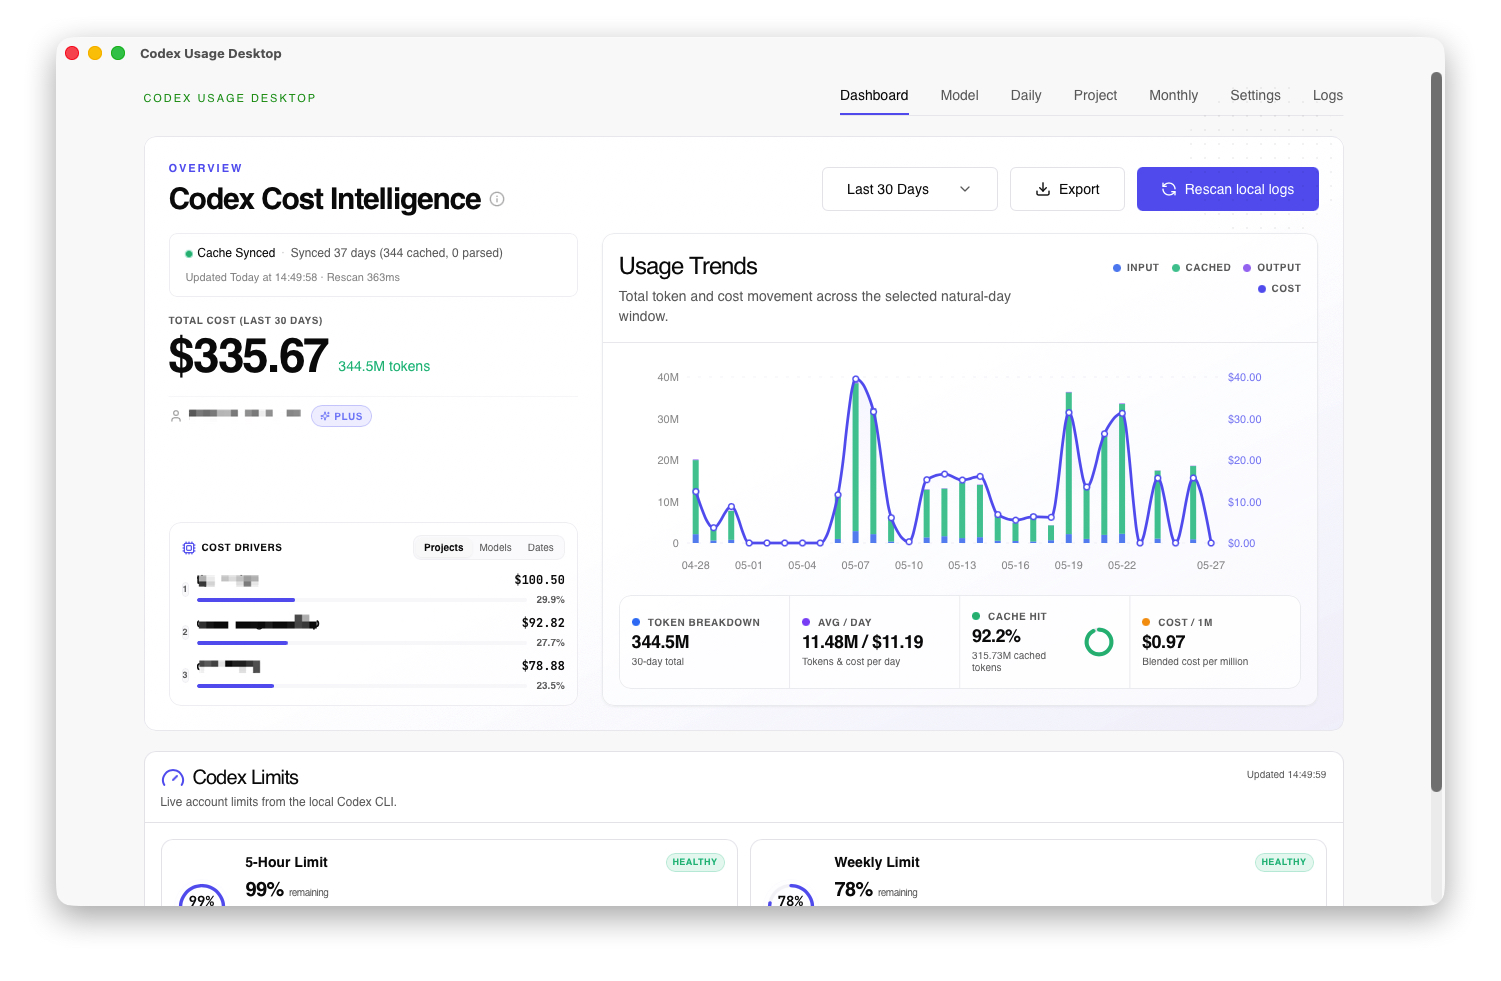
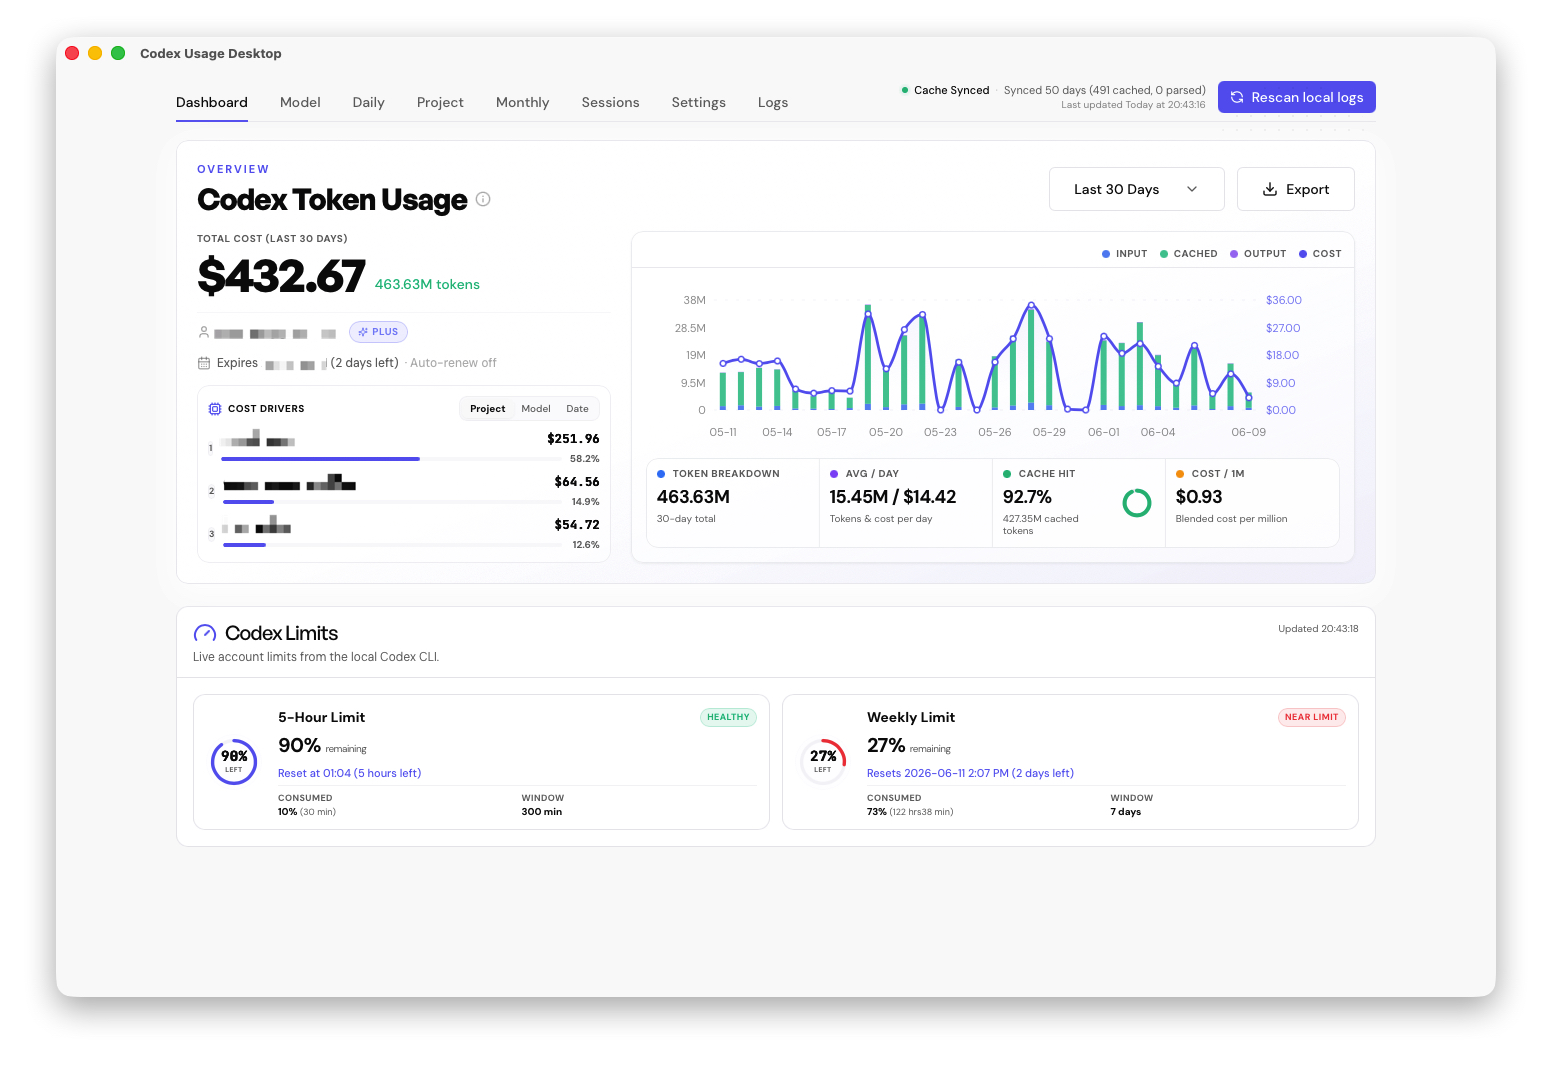
doc: update README

diff --git a/README.md b/README.md
@@ -7,19 +7,22 @@
 [![Built with Tauri](https://img.shields.io/badge/built%20with-Tauri-24c8db.svg)](https://tauri.app/)
 [![Local first](https://img.shields.io/badge/local--first-privacy-green.svg)](#privacy)
 
-A local-first macOS dashboard for Codex CLI token usage, cost estimates, model usage, and project usage from your local `~/.codex` logs.
+> See where your Codex tokens and dollars go — locally.
+
+A local-first macOS dashboard for OpenAI Codex CLI usage.
+No cloud account. No API key. No log upload. Reads your local ~/.codex logs.
 
 [Download the latest release](https://github.com/itvincent-git/codex-usage-desktop/releases/latest) · [中文 README](README_zh.md)
 
-Use Codex Usage Desktop if you run Codex CLI on your machine and want an OpenAI Codex usage tracker that helps you review recent token usage, cost trends, cache behavior, model usage, and project usage without uploading local logs.
+## Why this exists
 
-## Why Use It
+Codex usage can grow quickly, but it is hard to see:
 
-- Understand how many Codex tokens you use across recent work.
-- Estimate Codex CLI costs by model, day, and project.
-- See cache hit rate, cost per million tokens, and daily usage trends.
-- Keep usage analysis local by reading `~/.codex` session logs on your machine.
-- Export the selected dashboard window to Excel or Markdown for reporting.
+- which projects cost the most
+- which sessions burned tokens
+- which models are expensive
+- whether cache is helping
+- how usage changes over days/months
 
 ## Features
 
